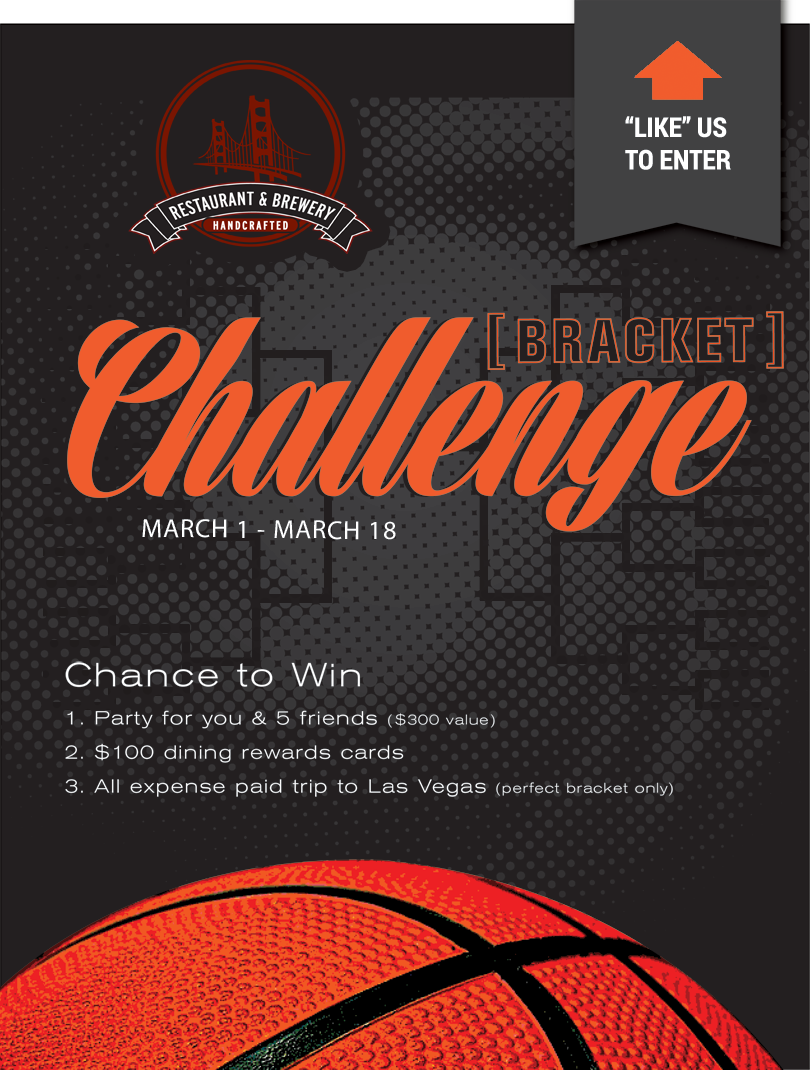
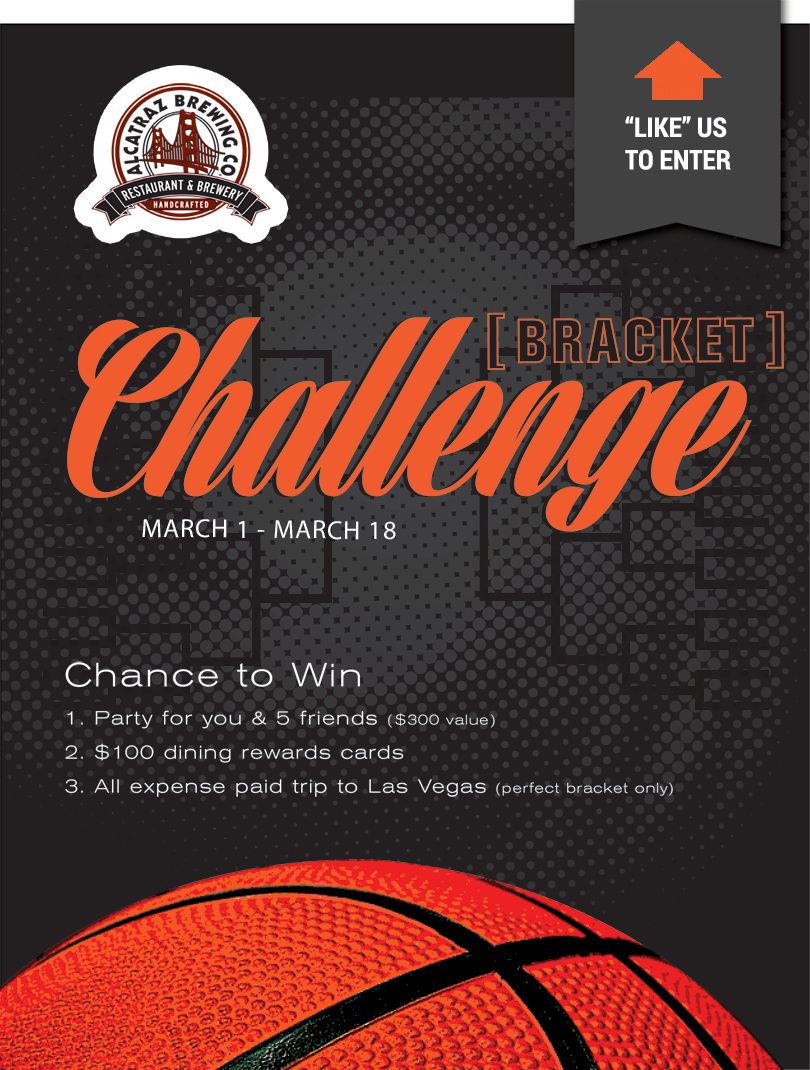
alcatraz brewing image fixed

Changed region(s): [[0.0926, 0.0308, 0.4938, 0.2776]]

diff --git a/app/assets/stylesheets/application/base.css.scss b/app/assets/stylesheets/application/base.css.scss
@@ -12,7 +12,7 @@ html {
   text-align: center;
 
   body {
-    background-image: url("/assets/backgrounds/courtside.png");
+    background-image: url("/assets/backgrounds/bg_basketball.jpg");
     background-repeat: no-repeat;
     background-size: cover;
     background-attachment: fixed;

diff --git a/app/assets/stylesheets/common/common.css.scss b/app/assets/stylesheets/common/common.css.scss
@@ -12,7 +12,7 @@
 /*               */
 /*****************/
 
-$red: #dc0000;
+$red: #f05c2d;
 
 $robotoFontFamily: 'Roboto Condensed', 'Lucida Sans Unicode', Arial, Helvetica, sans-serif;
 
